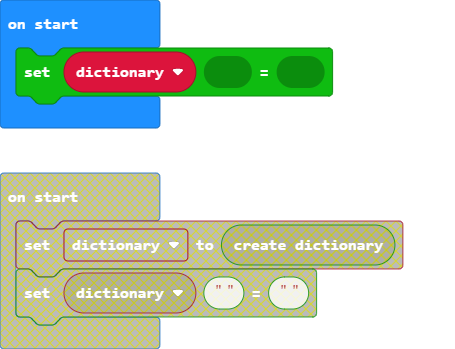
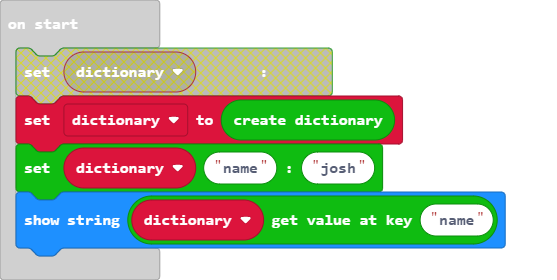
Update main.blocks, main.ts, custom.ts

diff --git a/custom.ts b/custom.ts
@@ -74,10 +74,16 @@ namespace dictionaries {
             _dicts.push(this);
         }
 
-        //% block="set | %dictionary | %key | = | %value"
-        public setPair(key: any, value: any): void{
+        //% block="set | %dictionary | %key | : | %value"
+        public setPair(key: string, value: string): void{
             this.keys.push(key)
             this.values.push(value)
+        }
+
+        //% block="%dictionary | get value at key | %key"
+        public getValue(key: string): string {
+            let index = this.keys.indexOf(key)
+            return this.values[index]
         }
     }
 

diff --git a/main.ts b/main.ts
@@ -1,2 +1,3 @@
-let dictionary: dictionaries.Dictionary = null
-dictionary.setPair(0, 0)
+let dictionary = dictionaries.createDictionary()
+dictionary.setPair("name", "josh")
+basic.showString(dictionary.getValue("name"))
